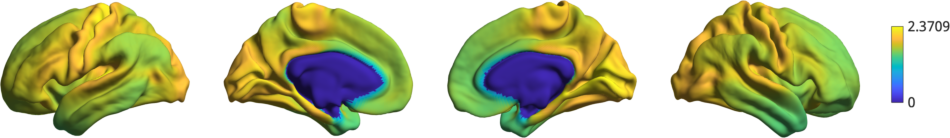
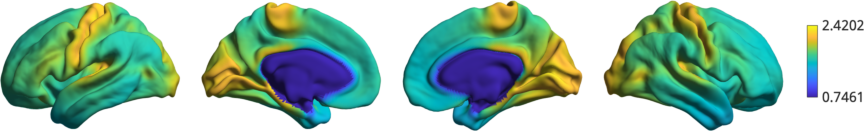
Modified getting started with MATLAB generated figures.

diff --git a/matlab/plot_data/plot_hemispheres.m b/matlab/plot_data/plot_hemispheres.m
@@ -3,8 +3,8 @@ function h = plot_hemispheres(data,surface,parcellation)
 % If parcellated data is provided, bring it to the full mesh.
 if exist('parcellation','var')
     data = parcel2full(data,parcellation);
-    data(isnan(data)) = -Inf;
 end
+data(isnan(data)) = -Inf;
 
 % Make sure surfaces are in SurfStat format.
 S = convert_surface(surface,'SurfStat');
@@ -25,13 +25,18 @@ for ii = 1:size(data,2)
     end
 end
 
-% Plot the surface(s).
-h.figure = figure('Color','white','Units','normalized','Position',[0 0 .9 .9]);
-colormap(parula(256));
+% Determine color limits
 for ii = 1:size(data,2)
     clim(:,ii) = [min(data(~isinf(data(:,ii)),ii)); ...
                   max(data(~isinf(data(:,ii)),ii))];
 end
+
+% Account for data consisting of only one value
+clim = clim + (clim(1,:) == clim(2,:)) .* [-eps;eps];
+
+% Plot the surface(s).
+h.figure = figure('Color','white','Units','normalized','Position',[0 0 .9 .9]);
+colormap(parula(256));
 for jj = 1:size(D,2)
     for ii = 1:numel(S)*2
         idx = ceil(ii/2);

diff --git a/docs/pages/getting_started.rst b/docs/pages/getting_started.rst
@@ -1,4 +1,4 @@
-.. _getting_started:
+.. _gettingstarted:
 
 Getting Started
 ==============================
@@ -26,7 +26,7 @@ Let's start by loading the data:
    .. code-tab:: matlab
 
          addpath('/path/to/micasoft/BrainSpace/matlab');
-         [surf_lh, surf_rh] = load_conte69()
+         [surf_lh, surf_rh] = load_conte69();
 
 We can plot the surfaces:
 
@@ -44,7 +44,7 @@ We can plot the surfaces:
         plot_hemispheres(ones(64984,1),{surf_lh,surf_rh}); 
 
 
-.. image:: ../_static/getting_started00.png
+.. image:: ./matlab_doc/examples/example_figs/gettingstarted1.png
    :scale: 70%
    :align: center
 
@@ -63,10 +63,11 @@ package only comes with toy matrices using Schaefer parcellations `(Schaefer et 
 
    .. code-tab:: matlab
 
+        labeling = load_parcellation('schaefer',400);
         conn_matices = load_group_hcp('schaefer',400);
         m = conn_matices.schaefer_400; 
 
-To compute the gradients of `m`. Next, we create the `GradientMaps` object and
+To compute the gradients of `m` we create the `GradientMaps` object and
 fit the model to our data:
 
 .. tabs::
@@ -92,7 +93,7 @@ fit the model to our data:
    .. code-tab:: matlab
 
         % Create gradient mapper using diffusion maps and normalized angle
-        gm = GradientMaps('kernel','na','manifold',dm','n_components',2);
+        gm = GradientMaps('kernel','na','approach','dm','n_components',2);
 
         % Fit the data with this gradient mapper.
         gm = gm.fit(m);
@@ -122,6 +123,6 @@ We can visually inspect the gradients:
         plot_hemispheres(gm.gradients{1}(:,1), {surf_lh,surf_rh});
 
 
-.. image:: ../_static/getting_started00.png
+.. image:: ./matlab_doc/examples/example_figs/gettingstarted2.png
    :scale: 70%
    :align: center

diff --git a/docs/pages/matlab_doc/examples/plot_spin_permutations.rst b/docs/pages/matlab_doc/examples/plot_spin_permutations.rst
@@ -20,9 +20,13 @@ We will start by loading the conte69 surfaces for left and right hemispheres, th
     % Load the data 
     [t1wt2w_lh,t1wt2w_rh] = load_metric('t1wt2w');
     [thickness_lh,thickness_rh] = load_metric('thickness');
-    thickness_lh = thickness_lh .* mask_lh; 
-    thickness_rh = thickness_rh .* mask_rh; 
-
+    
+    % Set the midline to nan
+    thickness_lh(~mask_lh) = nan; 
+    thickness_lh(~mask_rh) = nan; 
+    t1wt2w_lh(~mask_lh) = nan;
+    t1wt2w_rh(~mask_rh) = nan;
+    
 Lets first generate some null data using spintest. 
 
 .. code-block:: matlab
@@ -70,7 +74,7 @@ Now we simply compute the correlations between the first gradient and the origin
     r_rand = corr([t1wt2w_lh;t1wt2w_rh],thickness_rotated, ...
                   'rows','pairwise','type','spearman');
 
-To find a p-value, we simply compute the percentile rank of the true correlation in the distribution or random correlations. Assuming a threshold of p<0.05 for statistical significance and disregarding multiple comparison corrections, we consider the correlation to be significant if it is lower or higher than the 2.5th/97.5th percentile, respectively.
+To find a p-value, we simply compute the percentile rank of the true correlation in the distribution or random correlations. Assuming a threshold of p<0.05 for statistical significance and disregarding multiple comparison corrections, we consider the correlation to be significant if it is lower or higher than the 2.5th/97.5th percentile, respectively. 
 
 .. code-block:: matlab
 

diff --git a/docs/pages/matlab_doc/examples/plot_embedding_approaches.rst b/docs/pages/matlab_doc/examples/plot_embedding_approaches.rst
@@ -2,7 +2,7 @@ Embedding approaches for gradient construction
 =================================================
 Starting from the resting state connectivity matrix built  from a subset of the Human Connectome Project (HCP) dataset, we generate a sparse matrix and compute its affinity matrix. In this example, we show how the affinity matrix is decomposed using 3 different embedding approaches to obtain the gradients.
 
-We will start by loading the all the data we need for this example. Instead of using the original vertex-wise connectivity matrix, we are going to load a 100x100 matrix based on `Schaefer et al., 2017 <https://academic.oup.com/cercor/article-lookup/doi/10.1093/cercor/bhx179>`_ parcellation.
+We will start by loading the all the data we need for this example. Instead of using the original vertex-wise connectivity matrix, we are going to load a 100x100 matrix based on the `Schaefer et al., 2017 <https://academic.oup.com/cercor/article-lookup/doi/10.1093/cercor/bhx179>`_ parcellation.
 
 .. code-block:: matlab
 

diff --git a/docs/pages/matlab_doc/index.rst b/docs/pages/matlab_doc/index.rst
@@ -30,10 +30,8 @@ Support Functions
 Examples 
 ----------------
 .. toctree::
-   :glob:
    :maxdepth: 1
 
-   examples/*
-
-
-
+   examples/plot_embedding_approaches
+   examples/plot_different_parcellations
+   examples/plot_spin_permutations
